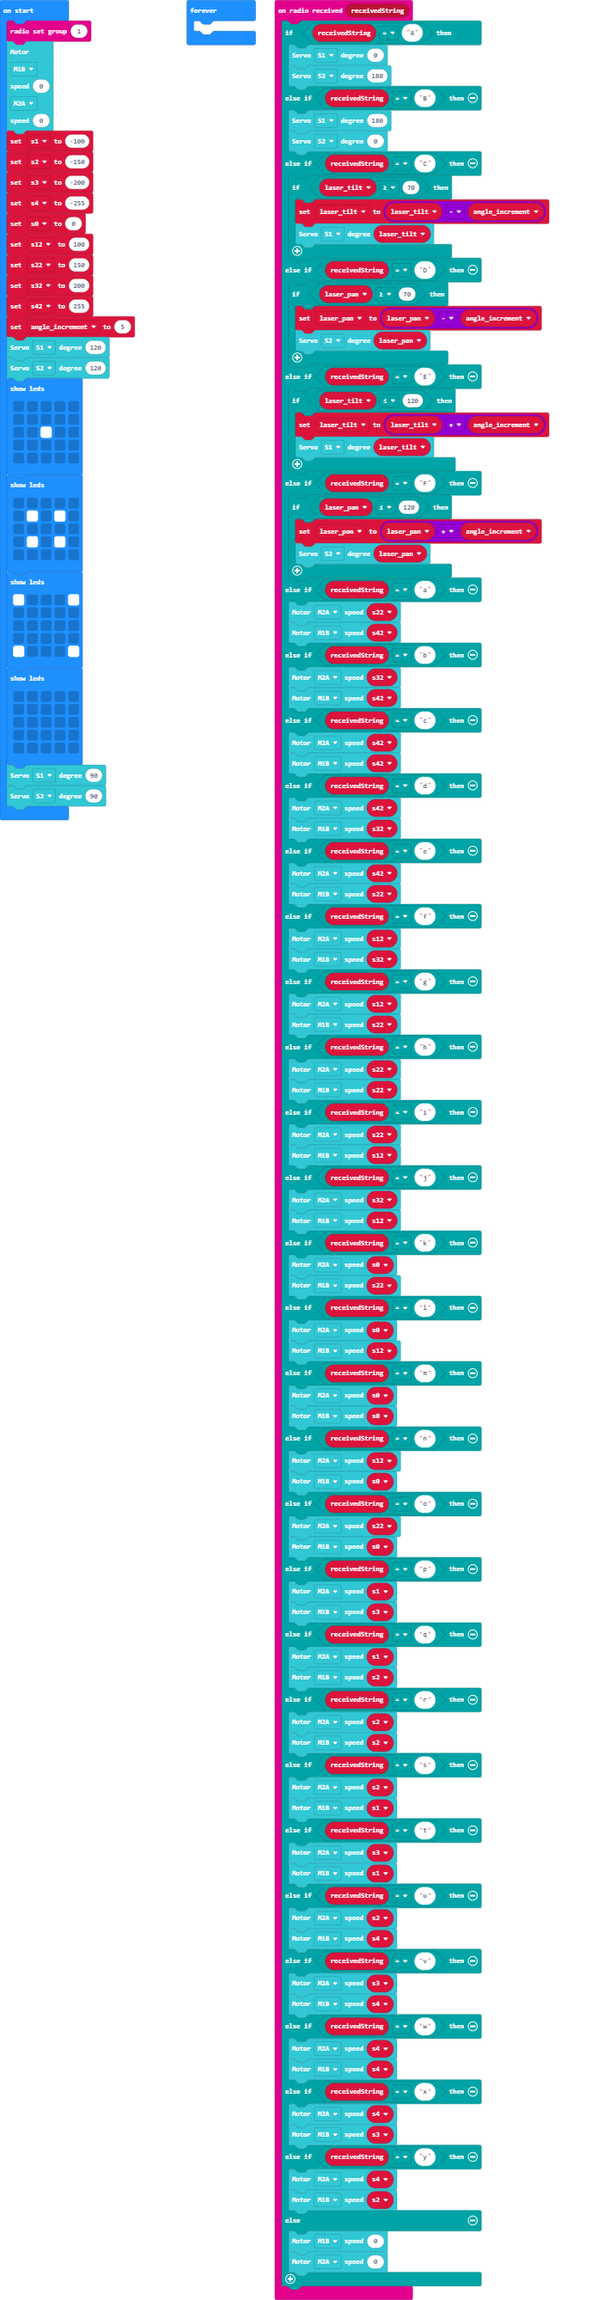
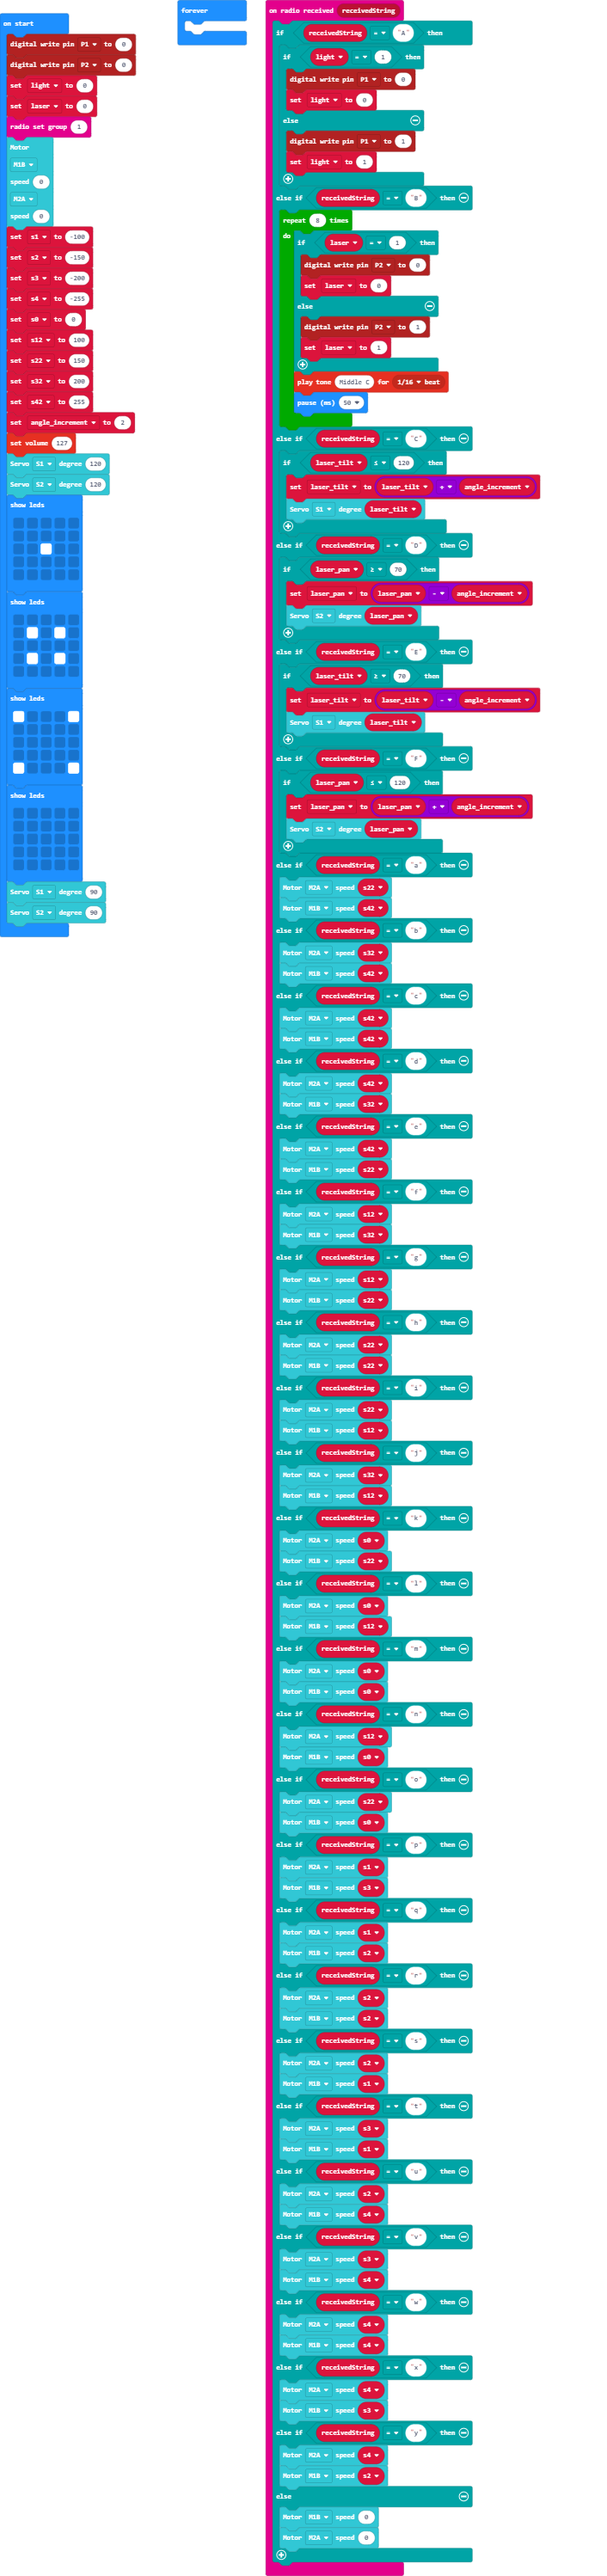
Added light and laser toggle functions.

Changed region(s): [[0.2805, 0.0, 0.9037, 1.0], [0.0, 0.0, 0.2493, 0.3722]]

diff --git a/main.ts b/main.ts
@@ -1,13 +1,27 @@
 radio.onReceivedString(function (receivedString) {
     if (receivedString == "A") {
-        robotbit.Servo(robotbit.Servos.S1, 0)
-        robotbit.Servo(robotbit.Servos.S2, 180)
+        if (light2 == 1) {
+            pins.digitalWritePin(DigitalPin.P1, 0)
+            light2 = 0
+        } else {
+            pins.digitalWritePin(DigitalPin.P1, 1)
+            light2 = 1
+        }
     } else if (receivedString == "B") {
-        robotbit.Servo(robotbit.Servos.S1, 180)
-        robotbit.Servo(robotbit.Servos.S2, 0)
+        for (let index = 0; index < 8; index++) {
+            if (laser == 1) {
+                pins.digitalWritePin(DigitalPin.P2, 0)
+                laser = 0
+            } else {
+                pins.digitalWritePin(DigitalPin.P2, 1)
+                laser = 1
+            }
+            music.playTone(262, music.beat(BeatFraction.Sixteenth))
+            basic.pause(50)
+        }
     } else if (receivedString == "C") {
-        if (laser_tilt >= 70) {
-            laser_tilt = laser_tilt - angle_increment
+        if (laser_tilt <= 120) {
+            laser_tilt = laser_tilt + angle_increment
             robotbit.Servo(robotbit.Servos.S1, laser_tilt)
         }
     } else if (receivedString == "D") {
@@ -16,8 +30,8 @@ radio.onReceivedString(function (receivedString) {
             robotbit.Servo(robotbit.Servos.S2, laser_pan)
         }
     } else if (receivedString == "E") {
-        if (laser_tilt <= 120) {
-            laser_tilt = laser_tilt + angle_increment
+        if (laser_tilt >= 70) {
+            laser_tilt = laser_tilt - angle_increment
             robotbit.Servo(robotbit.Servos.S1, laser_tilt)
         }
     } else if (receivedString == "F") {
@@ -117,6 +131,12 @@ let s4 = 0
 let s3 = 0
 let s2 = 0
 let s1 = 0
+let laser = 0
+let light2 = 0
+pins.digitalWritePin(DigitalPin.P1, 0)
+pins.digitalWritePin(DigitalPin.P2, 0)
+light2 = 0
+laser = 0
 radio.setGroup(1)
 robotbit.MotorRunDual(
 robotbit.Motors.M1B,
@@ -133,7 +153,8 @@ s12 = 100
 s22 = 150
 s32 = 200
 s42 = 255
-angle_increment = 5
+angle_increment = 2
+music.setVolume(127)
 robotbit.Servo(robotbit.Servos.S1, 120)
 robotbit.Servo(robotbit.Servos.S2, 120)
 basic.showLeds(`
